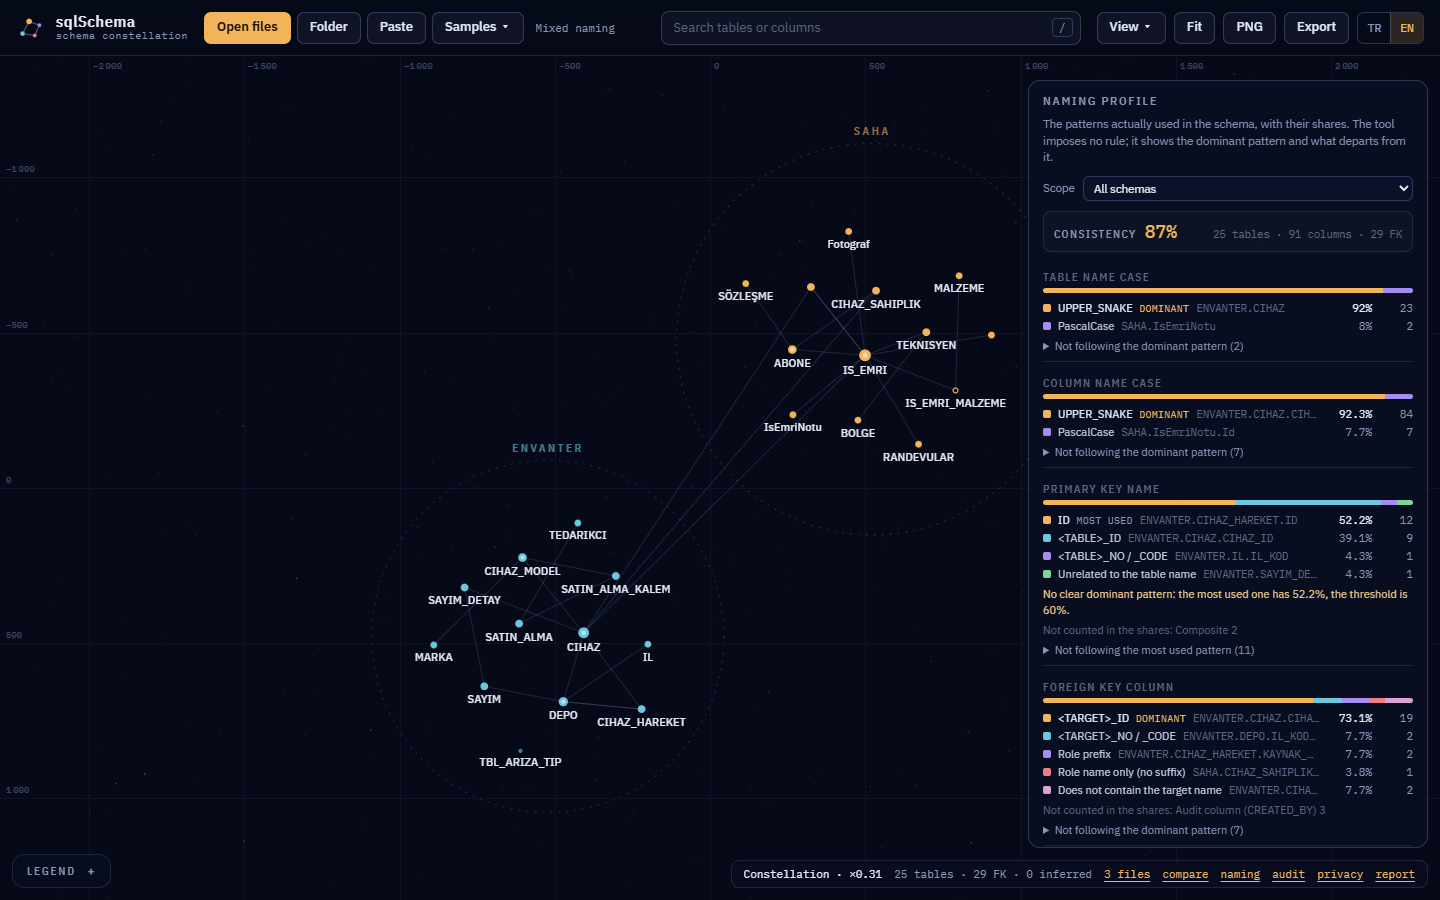
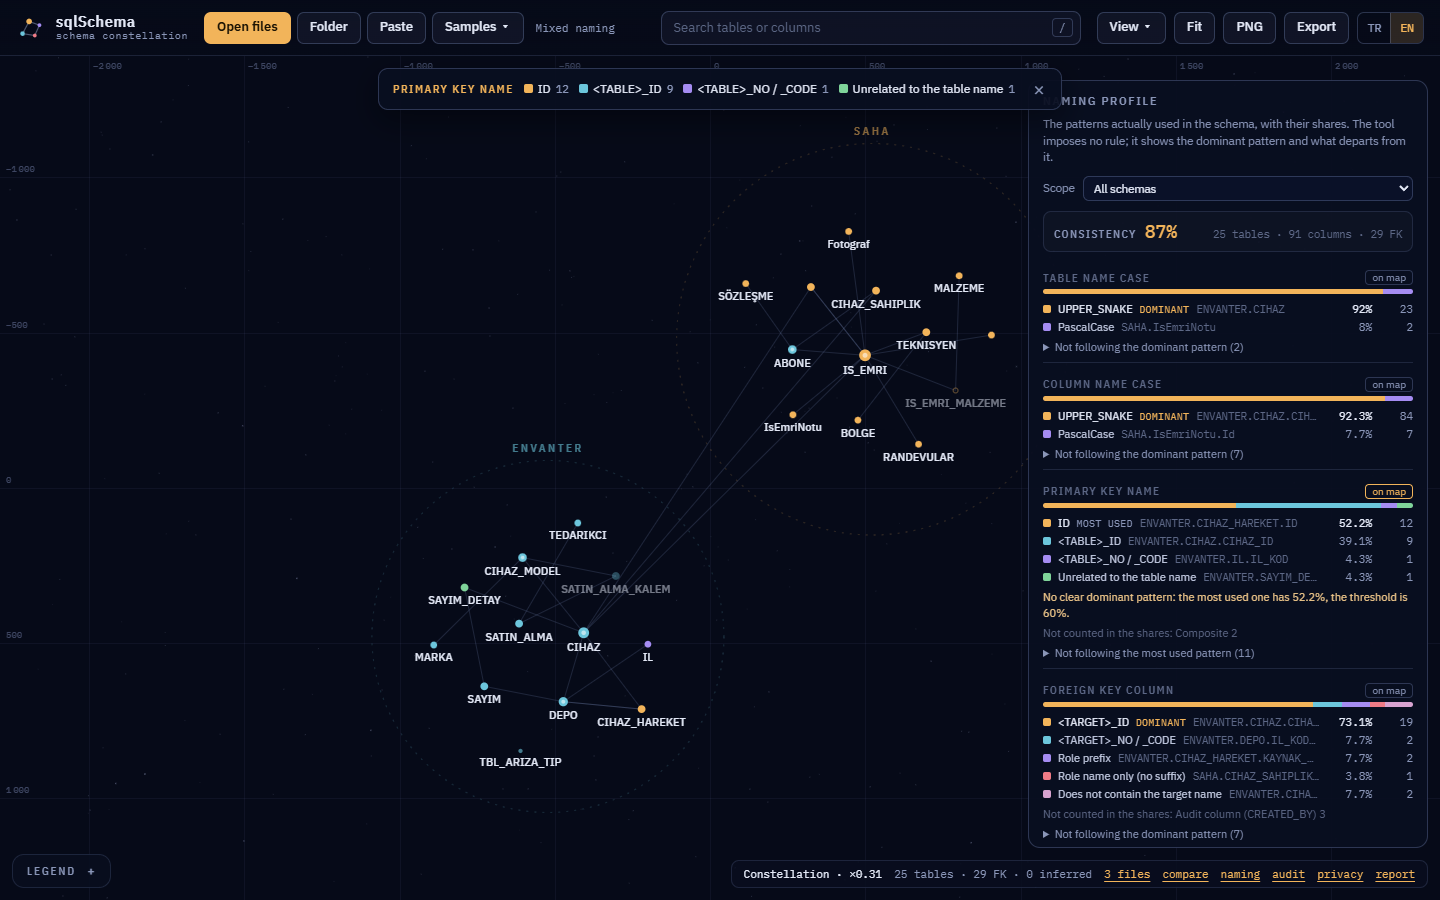
Stile göre boya
Adlandırma penceresinde her boyutun başlığındaki "haritada" düğmesi
haritayı o boyuta göre boyar; her kova penceredeki rengini alır. Tablonun
rengi, baskın kalıba uymayan bir öğesi varsa o kovanın rengidir (amaç
kalıp dışını göstermek), yoksa baskın kalıbınki. Kolon düzeyindeki
boyutlarda kartta ilgili kolon satırları da renklenir. Haritanın üstünde
boyutu ve renkleri gösteren bir çubuk; kapsam seçimi izlenir; denetim ve
KVKK boyamasıyla aynı anda açık olmaz; ?style=pkStyle.

diff --git a/js/ui.js b/js/ui.js
@@ -8,7 +8,7 @@
  *   ?pop=naming|report|files|diff|audit|privacy   (örnekle birlikte: açılışta gösterilecek pencere)   ?columns=0|1
  *   ?grouping=auto|file|name   ?list=0|1   ?sub=<tablo>,<tablo>&near=1 (alt diyagram)   ?impact=1 (select ile)
  *   ?diff=V3 (migration klasöründe bu sürümle karşılaştır)   ?time=V4 (zaman çizelgesi bu sürümde; ?time=1 baştan)
- *   ?privacy=1 (KVKK haritası)   ?audit=1 (tasarım denetimi haritada)   ?fix=1 (düzeltme önerileri penceresi)   ?std=1 (standart ve kurallar)   ?doc=1 (standart belgesi)
+ *   ?privacy=1 (KVKK haritası)   ?style=pkStyle (stile göre boya)   ?audit=1 (tasarım denetimi haritada)   ?fix=1 (düzeltme önerileri penceresi)   ?std=1 (standart ve kurallar)   ?doc=1 (standart belgesi)
  *   ?review=1 (değişiklik incelemesi; diff ya da time ile)   ?export=md|mermaid|plantuml|dbml|csv|svg
  */
 (function (NS) {
@@ -127,6 +127,7 @@ function rebuild() {
   renderTimeBar();
   refreshAudit();
   refreshPrivacy();
+  refreshStyle();
   S.pick = new Set([...S.pick].filter(k => S.byKey.has(k)));
   renderPickBar();
   return true;
@@ -405,7 +406,8 @@ function renderNaming() {
     const MAX = 60;
     const mixed = d.clear ? '' : `<p class="nn mixed">${esc(noClearNote(d, p))}</p>`;
     const outs = d.outliers.length ? `<details><summary>${esc(outliersTitle(d))}</summary><ul class="no">${d.outliers.slice(0, MAX).map(it => `<li data-go="${esc(it.t.key)}" data-col="${esc(it.c || '')}" tabindex="0">${esc(itemName(it))}</li>`).join('')}${d.outliers.length > MAX ? `<li class="more">${esc(t('namingMore', { n: d.outliers.length - MAX }))}</li>` : ''}</ul></details>` : '';
-    return `<section class="nd"><h5>${esc(t('nd_' + d.id))}</h5><div class="nbar">${bar}</div><ul class="nb">${rows}</ul>${mixed}${extra}${outs}</section>`;
+    const mapBtn = `<button class="nd-map${S.styleDim === d.id ? ' on' : ''}" data-style-dim="${d.id}" title="${esc(t('styleMapTitle'))}" aria-pressed="${S.styleDim === d.id}">${esc(t('styleMapBtn'))}</button>`;
+    return `<section class="nd"><h5>${esc(t('nd_' + d.id))}${mapBtn}</h5><div class="nbar">${bar}</div><ul class="nb">${rows}</ul>${mixed}${extra}${outs}</section>`;
   }).join('');
   el.innerHTML = `
     <h4>${esc(t('namingTitle'))}</h4>
@@ -417,12 +419,84 @@ function renderNaming() {
     <button class="btn sm ghost" data-act="std-open">${esc(t('stdBtn'))}</button></div>`;
 }
 
+/* ─── Stile göre boya ─── */
+
+// Adlandırma profilinin bir boyutuna göre harita: her kova adlandırma penceresindeki rengini alır. Tablonun rengi,
+// baskın kalıba uymayan bir öğesi varsa o kovanın rengidir (amaç kalıp dışını göstermek), yoksa baskın kalıbınki.
+// Kolon düzeyindeki boyutlarda (harf düzeni, FK, karakter) kartta ilgili kolon satırları da renklenir.
+S.styleDim = null;
+S.styleColor = null;   // tablo → renk (render.js)
+S.styleCols = null;    // tablo → Map(KOLON → renk)
+const STYLE_HEX = ['#f2b45a', '#6cc6dc', '#a58cf2', '#7fd49a', '#ef7b86', '#d8a3d0'];
+const styleHex = (d, key) => { const i = d.buckets.filter(b => !b.neutral).findIndex(b => b.key === key); return STYLE_HEX[i % STYLE_HEX.length]; };
+
+function applyStyleMap() {
+  S.styleColor = S.styleCols = null;
+  const d = S.styleDim && S.model ? currentProfile().profile.dims.find(x => x.id === S.styleDim) : null;
+  if (d && d.total) {
+    S.styleColor = new Map();
+    S.styleCols = new Map();
+    const votes = new Map();
+    for (const b of d.buckets) {
+      if (b.neutral) continue;
+      for (const it of b.items) {
+        if (it.c) { if (!S.styleCols.has(it.t)) S.styleCols.set(it.t, new Map()); S.styleCols.get(it.t).set(String(it.c).toUpperCase(), styleHex(d, b.key)); }
+        if (!votes.has(it.t)) votes.set(it.t, new Map());
+        votes.get(it.t).set(b.key, (votes.get(it.t).get(b.key) || 0) + 1);
+      }
+    }
+    for (const [tb, v] of votes) {
+      const keys = [...v.keys()];
+      const odd = keys.filter(k => k !== d.dominant).sort((a, b) => v.get(b) - v.get(a));
+      S.styleColor.set(tb, styleHex(d, odd.length ? odd[0] : keys[0]));
+    }
+  } else S.styleDim = null;
+  for (const tb of (S.model ? S.model.tables : [])) tb._rows = null;
+  renderStyleBar();
+}
+
+function setStyleDim(dim) {
+  S.styleDim = S.styleDim === dim ? null : dim;
+  if (S.styleDim) {
+    if (S.auditMap) { S.auditMap = false; applyAuditMap(); renderAudit(); }
+    if (S.privMap) { S.privMap = false; applyPrivMap(); renderPrivacy(); }
+  }
+  applyStyleMap();
+  renderNaming();
+  renderPanel();
+  invalidate();
+}
+// görüntülenen model ya da kapsam değişince kovalar yeniden sayılır
+function refreshStyle() {
+  if (S.styleDim) applyStyleMap();
+  else renderStyleBar();
+}
+
+// Haritanın üstünde küçük açıklama: boyut, kovalar ve renkleri
+function renderStyleBar() {
+  const el = $('#styleBar');
+  const d = S.styleDim && S.model ? currentProfile().profile.dims.find(x => x.id === S.styleDim) : null;
+  if (!d) { el.hidden = true; el.innerHTML = ''; return; }
+  const p = currentProfile().profile;
+  const items = d.buckets.filter(b => !b.neutral && b.n).map(b => `<span><i style="background:${styleHex(d, b.key)}"></i>${esc(bucketLabel(d, b, p.nameLimit))} <b>${b.n}</b></span>`).join('');
+  el.innerHTML = `<span class="pb-title">${esc(t('nd_' + d.id))}</span>${items}<button class="p-close" data-act="style-off" title="${esc(t('styleOff'))}" aria-label="${esc(t('styleOff'))}">×</button>`;
+  el.hidden = false;
+  el.classList.toggle('low', !$('#pickBar').hidden);
+}
+$('#styleBar').addEventListener('click', e => {
+  if (e.target.closest('[data-act="style-off"]')) { e.stopPropagation(); setStyleDim(S.styleDim); }
+});
+
 $('#namingPop').addEventListener('change', e => {
   if (e.target.id !== 'namingScope') return;
   S.namingScope = e.target.value;
+  applyStyleMap();
   renderNaming();
+  invalidate();
 });
 $('#namingPop').addEventListener('click', e => {
+  const sb = e.target.closest('[data-style-dim]');
+  if (sb) { e.stopPropagation(); setStyleDim(sb.dataset.styleDim); return; }
   const li = e.target.closest('li[data-go]');
   if (!li) return;
   const tb = S.model.tables.find(x => x.key === li.dataset.go);
@@ -513,6 +587,7 @@ function refreshAudit() {
 
 function setAuditMap(on) {
   if (on && S.privMap) { S.privMap = false; applyPrivMap(); renderPrivacy(); }
+  if (on && S.styleDim) { S.styleDim = null; applyStyleMap(); renderNaming(); }
   S.auditMap = on;
   getAudit();
   applyAuditMap();
@@ -1259,6 +1334,7 @@ function refreshPrivacy() {
 }
 function setPrivMap(on) {
   if (on && S.auditMap) { S.auditMap = false; applyAuditMap(); renderAudit(); }
+  if (on && S.styleDim) { S.styleDim = null; applyStyleMap(); renderNaming(); }
   S.privMap = on;
   getPrivacy();
   applyPrivMap();
@@ -1505,6 +1581,7 @@ function afterLayout() {
   renderPickBar();
   refreshAudit();
   refreshPrivacy();
+  refreshStyle();
   resetHud();
   fitView(true);
 }
@@ -2003,6 +2080,7 @@ function timeGo(i) {
   renderTimeBar();
   refreshAudit();
   refreshPrivacy();
+  refreshStyle();
   resetHud();
   invalidate();
 }
@@ -2716,6 +2794,7 @@ NS.onLangChange(() => {
     renderTimeBar();
     renderAudit();
     renderPrivacy();
+    renderStyleBar();
     if ($('#fixDlg').open) renderFix();
     if ($('#reviewDlg').open) renderReview();
     if ($('#stdDlg').open) renderStd();
@@ -2813,6 +2892,8 @@ if (params.get('sample')) {
     if (params.get('audit') === '1') setAuditMap(true);
     // ?privacy=1: KVKK haritası
     if (params.get('privacy') === '1') setPrivMap(true);
+    // ?style=pkStyle: haritayı adlandırma profilinin bu boyutuna göre boya
+    if (params.get('style')) setStyleDim(params.get('style'));
     const pop = { naming: '#namingPop', report: '#report', files: '#filesPop', diff: '#diffPop', audit: '#auditPop', privacy: '#privPop' }[params.get('pop')];
     if (pop) { togglePop(pop); if (pop === '#auditPop') renderAudit(); if (pop === '#privPop') renderPrivacy(); }
     // ?fix=1: düzeltme önerileri penceresi

diff --git a/js/render.js b/js/render.js
@@ -113,6 +113,8 @@ function cardRows(t) {
   t._auditCols = !S.diffRes && S.auditCols ? S.auditCols.get(t) || null : null;
   // KVKK haritası açıkken kişisel veri kolonları
   t._privCols = !S.diffRes && S.privCols ? S.privCols.get(t) || null : null;
+  // stile göre boya: kalıbın kapsadığı kolon satırları (renk doğrudan)
+  t._styleCols = !S.diffRes && S.styleCols ? S.styleCols.get(t) || null : null;
   t._rowIdx = new Map(t._rows.map((c, i) => [c.name.toUpperCase(), i]));
   t._h = CARD.head + Math.max(1, t._rows.length) * CARD.row + (t._more > 0 ? CARD.row : 0) + CARD.pad;
   return t._rows;
@@ -287,6 +289,8 @@ function nodeAlpha(t) {
   else if (S.auditSev) { const sev = S.auditSev.get(t); if (!sev || sev === 'info') return 0.35; }
   // KVKK haritası: kişisel veriyle ilgisi olmayan tablolar geri planda
   else if (S.privSev) { if (!S.privSev.get(t)) return 0.35; }
+  // stile göre boya: boyutun dışında kalan (ör. PK'siz) tablolar geri planda
+  else if (S.styleColor) { if (!S.styleColor.get(t)) return 0.35; }
   return 1;
 }
 
@@ -302,6 +306,7 @@ const auditColor = t => { const s = !S.diffRes && S.auditSev && S.auditSev.get(t
 // KVKK haritası: özel nitelikli kırmızı, kişisel veri sarı, kişiyle ilişkilendirilebilen mavi
 const PRIV_COLOR = { special: '#ef7b86', personal: '#f2b45a', linked: '#6cc6dc' };
 const privColor = t => { const s = !S.diffRes && S.privSev && S.privSev.get(t); return s ? PRIV_COLOR[s] : null; };
+const styleColor = t => (!S.diffRes && S.styleColor ? S.styleColor.get(t) || null : null);
 
 function relClass(r) {
   const em = S.em;
@@ -654,7 +659,7 @@ function drawStars(lv) {
     if (t.x < v.x0 || t.x > v.x1 || t.y < v.y0 || t.y > v.y1) continue;
     const a = nodeAlpha(t);
     const x = sx(t.x), y = sy(t.y), r = starR(t);
-    const col = diffColor(t) || auditColor(t) || privColor(t) || schemaColor(t);
+    const col = diffColor(t) || auditColor(t) || privColor(t) || styleColor(t) || schemaColor(t);
     ctx.globalAlpha = a * (t.deg === 0 ? 0.6 : 1);
     if (t === em.active || t === S.sel) {
       const g = ctx.createRadialGradient(x, y, 0, x, y, r * 5);
@@ -810,7 +815,7 @@ function drawCards() {
     const rows = cardRows(t);
     const W = CARD.w * k, H = t._h * k;
     const x0 = sx(t.x) - W / 2, y0 = sy(t.y) - H / 2;
-    const col = diffColor(t) || auditColor(t) || privColor(t) || schemaColor(t);
+    const col = diffColor(t) || auditColor(t) || privColor(t) || styleColor(t) || schemaColor(t);
     const a = nodeAlpha(t);
     const isSel = t === S.sel, isAct = t === em.active;
     ctx.globalAlpha = a;
@@ -863,6 +868,8 @@ function drawCards() {
       if (as) { ctx.fillStyle = rgba(AUDIT_COLOR[as], as === 'info' ? 0.1 : 0.16); ctx.fillRect(x0 + 1, y - rowH / 2, W - 2, rowH); }
       const ps = !ds && !as && t._privCols && t._privCols.get(c.name.toUpperCase());
       if (ps) { ctx.fillStyle = rgba(PRIV_COLOR[ps === 'special' ? 'special' : 'personal'], 0.16); ctx.fillRect(x0 + 1, y - rowH / 2, W - 2, rowH); }
+      const ss = !ds && !as && !ps && t._styleCols && t._styleCols.get(c.name.toUpperCase());
+      if (ss) { ctx.fillStyle = rgba(ss, 0.18); ctx.fillRect(x0 + 1, y - rowH / 2, W - 2, rowH); }
       const tag = keyTag(t, c);
       ctx.textAlign = 'left';
       if (tag) {

diff --git a/style.css b/style.css
@@ -733,6 +733,15 @@ body:not(.loaded) .legend, body:not(.loaded) .hud { display: none; }
 .report ul.nb li { display: grid; grid-template-columns: 8px minmax(0, auto) minmax(0, 1fr) 46px 34px; align-items: center; gap: 7px; padding: 2px 0; font-family: var(--sans); cursor: pointer; }
 .nb li:hover .ex { color: var(--text); }
 .nb .sw { width: 8px; height: 8px; border-radius: 2px; }
+.nd h5 { display: flex; align-items: center; }
+.nd-map { margin-left: auto; padding: 0 6px; border: 1px solid var(--line-2); border-radius: 4px; background: none; color: var(--dim); font: 10px var(--sans); letter-spacing: 0; text-transform: none; cursor: pointer; }
+.nd-map:hover, .nd-map.on { border-color: var(--accent); color: var(--accent); }
+.style-bar { flex-wrap: wrap; max-width: calc(100% - 24px); font-size: 12px; border-color: var(--line-2); }
+.style-bar.low { top: 58px; }
+.style-bar span { display: inline-flex; align-items: center; gap: 5px; white-space: nowrap; }
+.style-bar span i { width: 9px; height: 9px; border-radius: 2px; }
+.style-bar span b { font: 500 11px var(--mono); color: var(--dim); }
+.style-bar .p-close { position: static; flex: none; }
 .nb .nl { white-space: nowrap; color: var(--text); }
 .nb .nl em { font: normal 9.5px var(--mono); color: var(--accent); margin-left: 4px; text-transform: uppercase; letter-spacing: 0.06em; }
 .nb .nl em.weak { color: var(--dim); }

diff --git a/js/i18n.js b/js/i18n.js
@@ -130,6 +130,7 @@ const DICT = {
     privFile: 'kvkk-envanter',
     privMdTitle: v => `${v.title} · kişisel veri envanteri`,
     privCsvHead: ['Şema', 'Tablo', 'Kolon', 'Kategori', 'Kaynak', 'Kişiyle ilişki'],
+    styleMapBtn: 'haritada', styleMapTitle: 'Haritayı bu boyuta göre boya: kalıp dışı öğesi olan tablo o kalıbın rengini alır', styleOff: 'Boyamayı kapat',
     exBtn: 'Dışa aktar', exDownload: 'İndir',
     exTitle: 'Dışa aktarma',
     exIntro: 'Şemayı belge ya da başka bir aracın biçiminde verir. Dosyalar tarayıcıda üretilir; şema hiçbir yere gönderilmez.',
@@ -648,6 +649,7 @@ const DICT = {
     privFile: 'personal-data-inventory',
     privMdTitle: v => `${v.title} · personal data inventory`,
     privCsvHead: ['Schema', 'Table', 'Column', 'Category', 'Source', 'Relation to a person'],
+    styleMapBtn: 'on map', styleMapTitle: 'Colour the map by this dimension: a table with an item outside the dominant pattern takes that pattern\'s colour', styleOff: 'Stop colouring',
     exBtn: 'Export', exDownload: 'Download',
     exTitle: 'Export',
     exIntro: 'Gives the schema as a document or in another tool\'s format. Files are generated in the browser; the schema is not sent anywhere.',

diff --git a/tools/screenshots.js b/tools/screenshots.js
@@ -25,7 +25,7 @@ const SCENES = {
   'alt-diyagram': 'sample=telekom&sub=BILLING_ACCOUNT,INVOICE&near=1&legend=0',
   'etki-analizi': 'sample=kucuk&select=CUSTOMER&impact=1&zoom=0.75&legend=0',
   'mongodb-uydular': 'sample=sosyal&select=posts&zoom=0.75&legend=0',
-  'adlandirma-profili': 'sample=karisik&pop=naming&legend=0',
+  'adlandirma-profili': 'sample=karisik&pop=naming&style=pkStyle&legend=0',
   'sema-farki': 'sample=lojistik&diff=V3&select=shipments&zoom=1.3&legend=0',
   'zaman-cizelgesi': 'sample=lojistik&time=V4&select=shipments&zoom=0.85&legend=0',
   'tasarim-denetimi': 'sample=hatali&audit=1&select=KAMPANYA&zoom=1.1&legend=0',

diff --git a/index.html b/index.html
@@ -92,6 +92,7 @@
 
   <aside id="panel" class="panel" hidden></aside>
   <div id="pickBar" class="pickbar" hidden></div>
+  <div id="styleBar" class="pickbar style-bar" hidden></div>
 
   <aside id="tableList" class="tlist" hidden data-i18n-attr="aria-label:listTitle">
     <div class="tl-head">

diff --git a/README.md b/README.md
@@ -382,6 +382,7 @@ Ekipte yazılı bir adlandırma standardı yoksa ilk adım, şemada fiilen ne ku
 - En çok kullanılan kalıbın payı %60'ın altındaysa "baskın" denmez; pencere **belirgin baskın kalıp yok** uyarısı gösterir. %51'e %49 gibi bir dağılım, şemada iki ayrı alışkanlık olduğunu söyler.
 - **Kapsam** seçimiyle profil tek bir şema için hesaplanır. Böylece hangi modülün hangi alışkanlıkla yazıldığı ayrılır.
 - **Tutarlılık** puanı, her boyutta baskın kalıba uyan adların ortalama oranıdır.
+- **Haritada:** her boyutun başlığındaki **haritada** düğmesi haritayı o boyuta göre boyar; her kalıp penceredeki rengini alır. Baskın kalıba uymayan bir öğesi olan tablo o kalıbın rengiyle öne çıkar. Kolon düzeyindeki boyutlarda (harf düzeni, FK, karakter) kartta ilgili kolon satırları da renklenir. Böylece hangi ekibin şemanın neresini yazdığı bir bakışta görünür. `?style=pkStyle` bu görünümü açar.
 - **Markdown indir** profili ekiple paylaşmak için bir dosyaya yazar.
 
 Araç bir kural dayatmaz: `ID` mi `<TABLO>_ID` mi doğru, buna ekip karar verir.
@@ -1076,6 +1077,7 @@ When a team has no written naming standard, the first step is to see what the sc
 - If the most used pattern has less than 60%, it is not called dominant; the window shows **no clear dominant pattern**. A 51% to 49% split means the schema has two separate habits.
 - **Scope** computes the profile for a single schema, which separates the habits of different modules.
 - The **consistency** score is the average share of names that follow the dominant pattern in each dimension.
+- **On the map:** the **on map** button in each dimension's heading colours the map by that dimension; each pattern takes its colour from the window. A table with an item outside the dominant pattern stands out in that pattern's colour. For column-level dimensions (case, FK, characters) the matching column rows on the card are tinted too. You see at a glance which team wrote which part of the schema. `?style=pkStyle` opens this view.
 - **Download Markdown** writes the profile to a file to share with the team.
 
 The tool imposes no rule: whether `ID` or `<TABLE>_ID` is right is the team's decision.

diff --git a/CHANGELOG.md b/CHANGELOG.md
@@ -5,6 +5,11 @@ This file follows [Keep a Changelog](https://keepachangelog.com/en/1.1.0/) and [
 
 ## [Yayımlanmamış · Unreleased]
 
+### Eklendi · Added
+
+- **Stile göre boya:** adlandırma penceresinde her boyutun **haritada** düğmesi haritayı o boyuta göre boyar; baskın kalıba uymayan öğesi olan tablo o kalıbın rengini alır, kolon düzeyindeki boyutlarda kolon satırları da renklenir; haritanın üstünde açıklama çubuğu; `?style=pkStyle`.
+  Colour by style: the **on map** button of each dimension in the naming window colours the map by that dimension; a table with an item outside the dominant pattern takes that pattern's colour, and for column-level dimensions the column rows are tinted too; a legend bar above the map; `?style=pkStyle`.
+
 ## [0.10.0] - 2026-10-30
 
 ### Eklendi · Added
